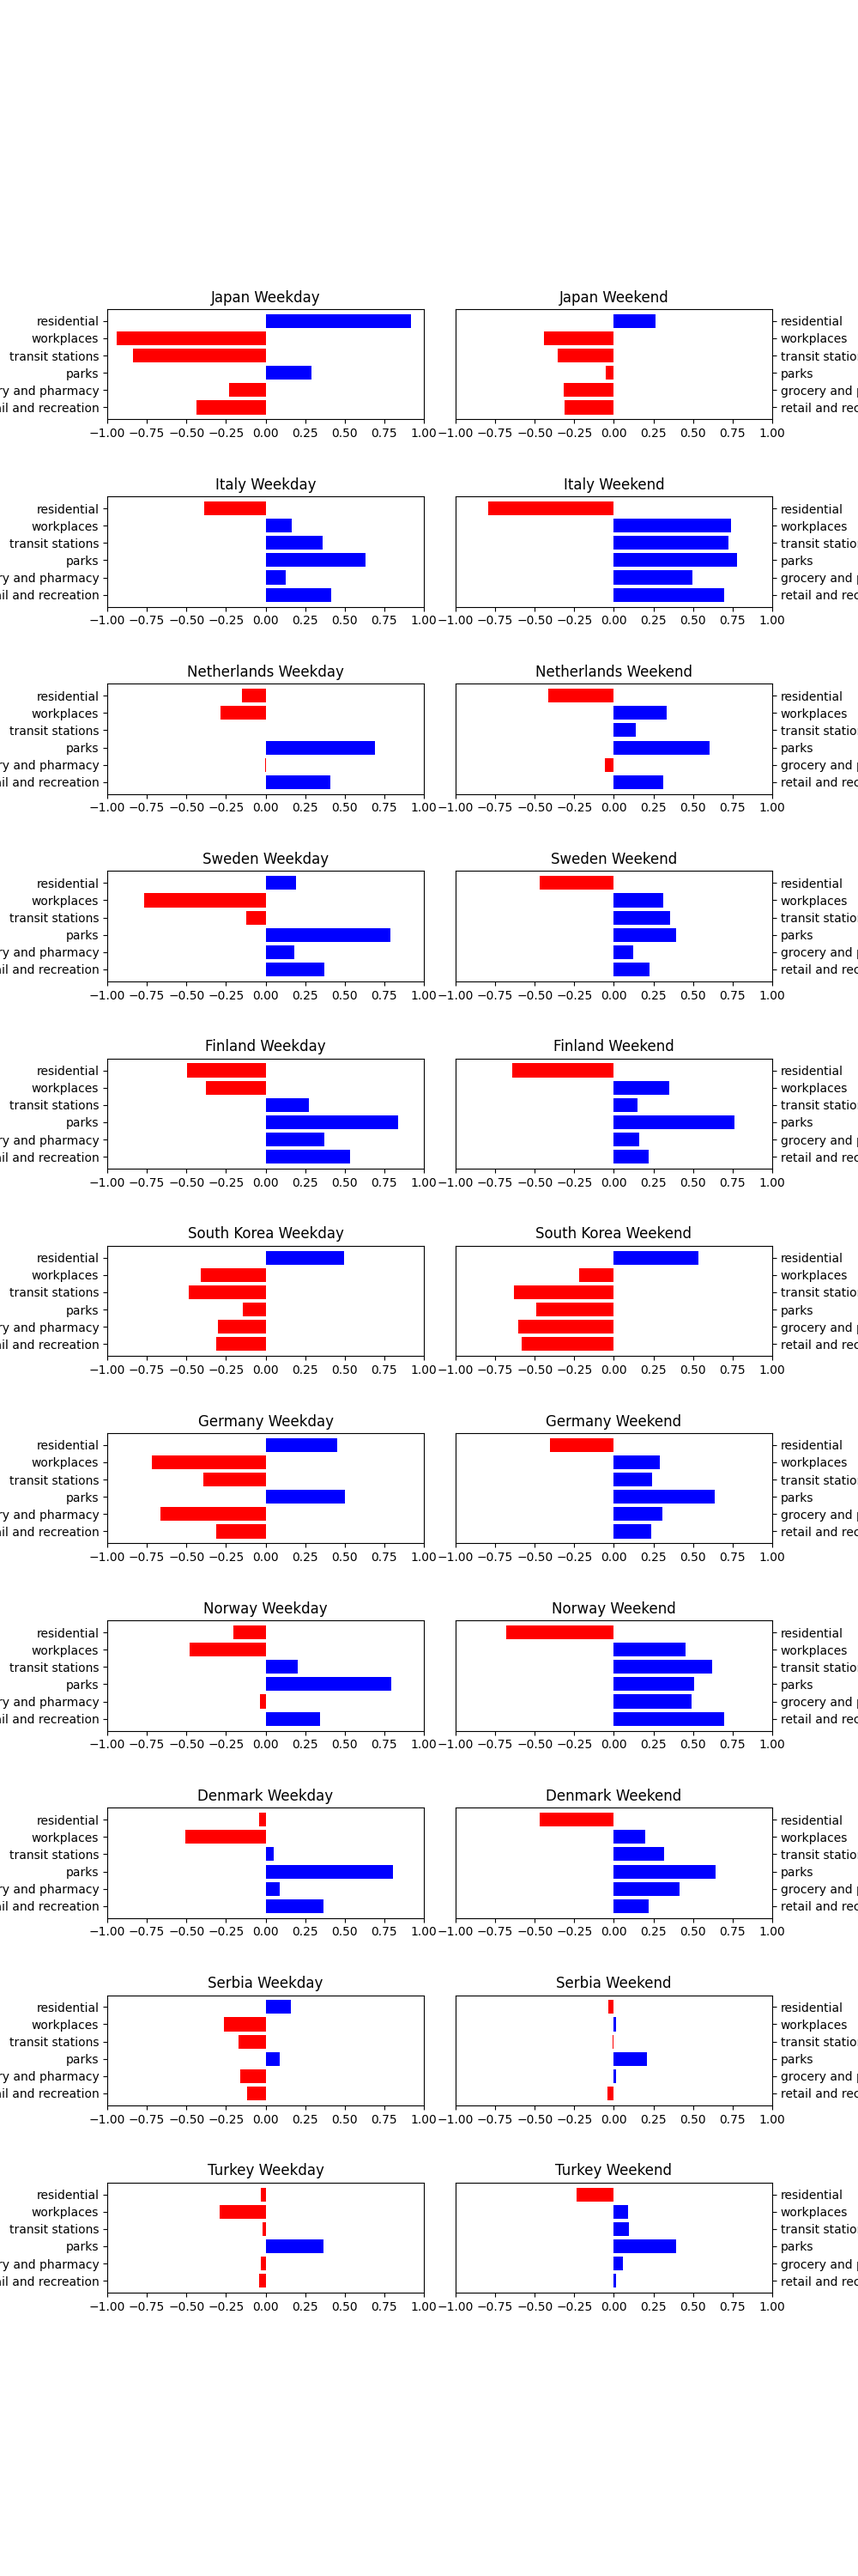
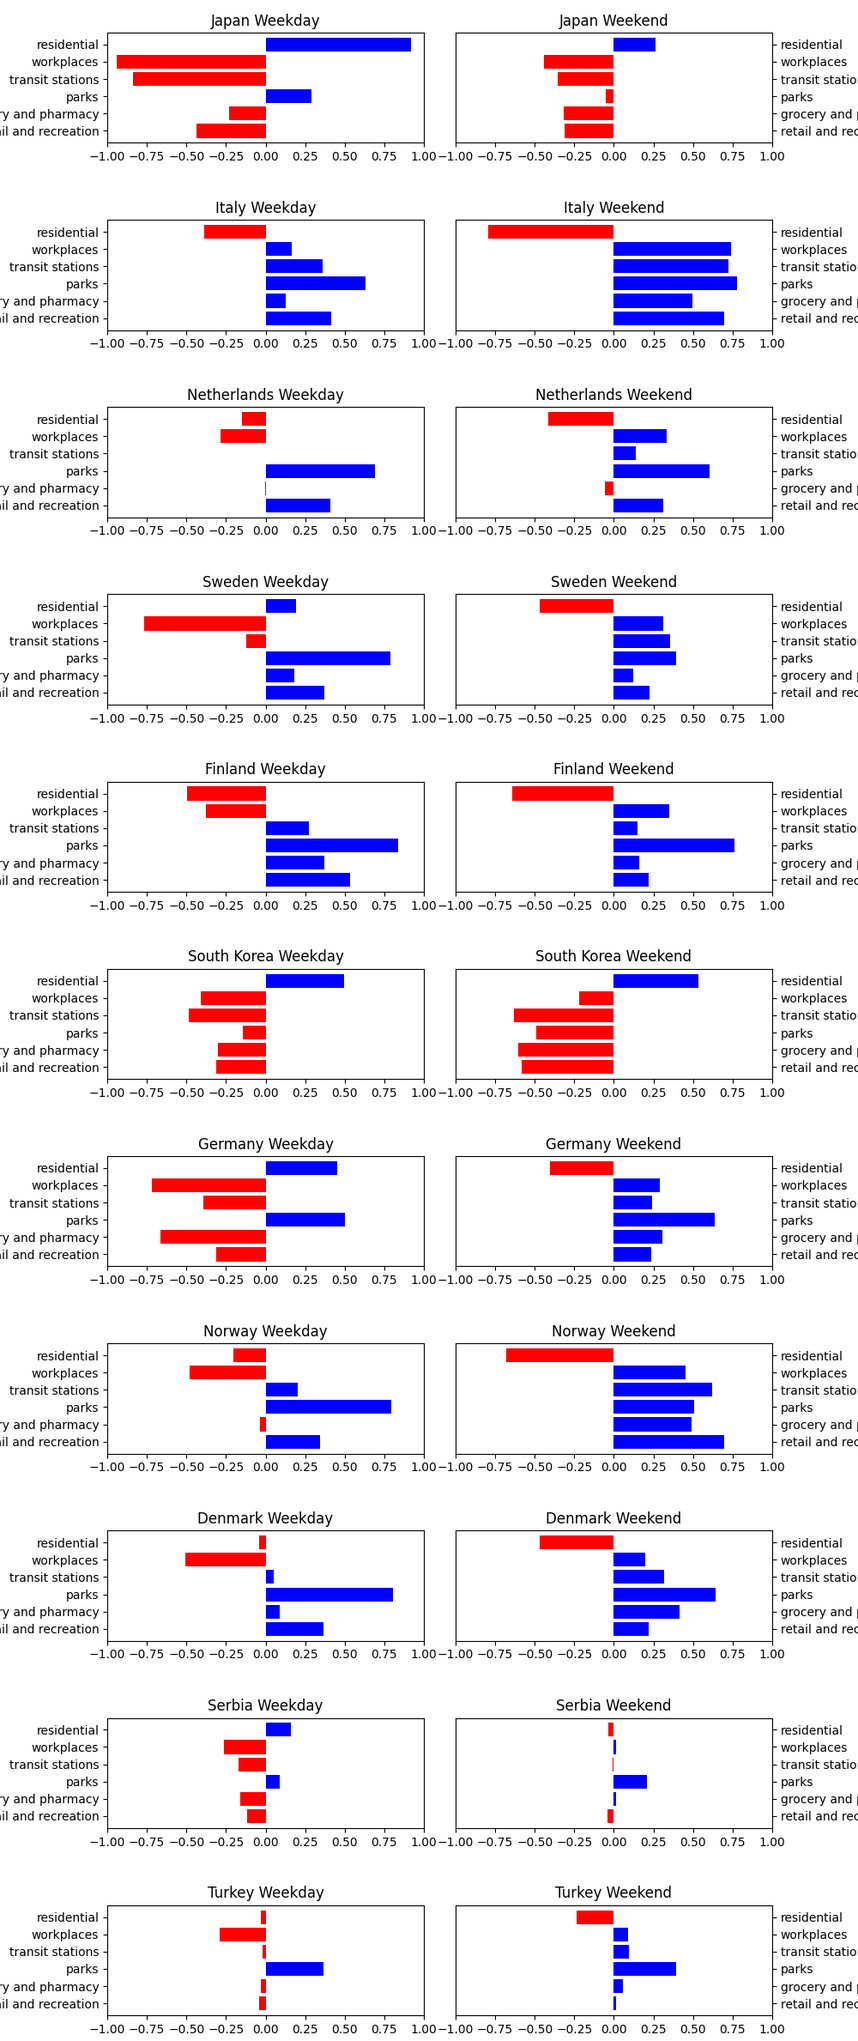
modification of imgs

diff --git a/index.md b/index.md
@@ -13,7 +13,7 @@ First of all, to be able to observe the impact of covid on our habits, it is imp
 We begin the analysis by first taking a look at how Wikipedia search differs from mobile and desktop device on a volumetric-wise level. The follwing figure shows that people have an overall preference in using mobile device than desktop. 
 <!-- No matter the country, the mobile device such as smartphone is the main tool for Wikipedia searches, and even if the desktop still represents a significant part of the consultations, it loses more and more its interest with time. This observation is consistent with the observation that smartphones are used more and more intensively over time, while desktop are more often associated with more serious work-related tasks. -->
 
-<img align = "center" src="data/fig1.jpg" width="90%"> 
+<img align = "center" src="data/fig1.jpg" width="100%"> 
 
 We also notice that there are perodical spikes in the plots. Why do thoses perodical spikes occur? One possibility might be the result from  people's different routines during the weekdays and on weekends. To verify this, we next plot the pageviews from desktop device during weekdays and on weekend by different colors to see if there is consistent difference between them.
 
@@ -53,7 +53,7 @@ Till now, we only do the analysis based on visualization of the data from one da
 
 ## Does the statistic test confirm the difference?
 Before doing the test, we get the boxplot of the gap of pageview percentage of each topic. The follwing figure is an example of the result from Serbian. But again, after inspecting the result for all languages, we have some general findings. We notice that for most of the topics, the difference is distributed around zero. But for technology and STEM.STEM, the pageview percentage from desktop is almost always higher in all languages and for biography always lower.
-<img align = "center" src="data/boxplot.jpg" width="100%"> 
+<img align = "center" src="data/boxplot.jpg" width="80%"> 
 
 We further analyze the difference in a more rigorous way by carrying out paired t test. In the statistic test, the tested two series are the percentage of one topic from desktop and mobile from 01/01/2018 (except for swedish). We do the statistic test for all the topics to see for which topics the difference is significant with a significant level of 0.05. From the result of the test, we find that all of the 12 languages have a number of siginificant topics more than 60, which means the difference between the pageview percent from desktop and mobile device is significant for over 60 topics. This indicates a significant difference of people's search pattern from the two type of devices.
 
@@ -79,7 +79,7 @@ For this we have isolated all Wikipedia topics related to covid, and we will now
 
 In most of cases, the maximum researches intensity is on the mobility changepoint. In Italy, covid researches percentage curve follows the same trend as number of deaths per days. But for France, trends are delayed. That's due to the fact that French people reacted at the same time as their Italian neighbours because the news are shared in media.
 
-<img align = "center" src="data/fig2-2.png" width="100%"> 
+<img align = "center" src="data/fig2-2.png" width="70%"> 
 
 Here, we can see that the similarity between cases and researches is always more intense that the one between deaths and researches. It means that the way to count cases is very important because it could bias reaction of people on their research about covid. On the plot, we can see that countries from Western Europe are more sensitive than others (France, Germany, Italy) and they have pretty the same reaction because the covid spreads almost at the same time on their population. Norway and Finland are more moderate, the relation between number of declared cases and covid research on wikipedia is less intense. But again we found a geographical link.
 
@@ -102,7 +102,17 @@ In Asian countries, the use of the smartphone is mostly correlated to its presen
 
 To make this observation more readable, we can observe on the figure below the strong correlation between the use of the cell phone and the time spent at home for countries like Japan or South Korea, while this observation is impossible to make for the other countries studied.
 
-<img align = "center" src="data/fig3-2.png" width="100%"> 
+<img align = "center" src="data/fig3-2-1.png" width="100%"> 
+<img align = "center" src="data/fig3-2-2.png" width="100%"> 
+<img align = "center" src="data/fig3-2-3.png" width="100%"> 
+<img align = "center" src="data/fig3-2-4.png" width="100%"> 
+<img align = "center" src="data/fig3-2-5.png" width="100%"> 
+<img align = "center" src="data/fig3-2-6.png" width="100%"> 
+<img align = "center" src="data/fig3-2-7.png" width="100%"> 
+<img align = "center" src="data/fig3-2-8.png" width="100%"> 
+<img align = "center" src="data/fig3-2-9.png" width="100%"> 
+<img align = "center" src="data/fig3-2-10.png" width="100%"> 
+<img align = "center" src="data/fig3-2-11.png" width="100%"> 
 
 ## Conclusion
 
